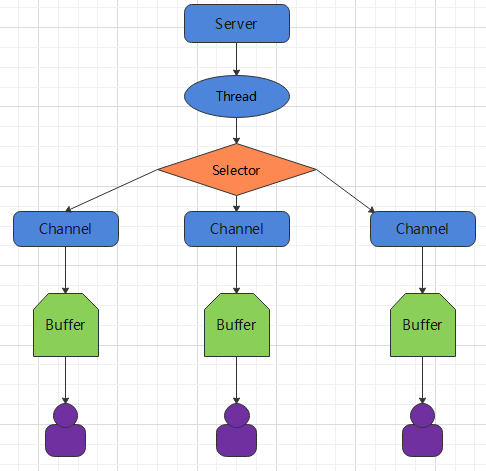
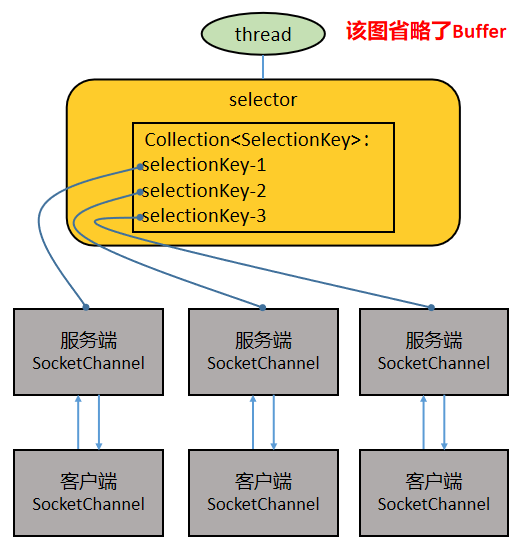
笔记更新

diff --git a/note/technology/netty/code/NioCode.java b/note/technology/netty/code/NioCode.java
@@ -1,50 +1,48 @@
 //服务端示例
+//工作过程参考(img/img.png)
 public static void main(String[] args) throws IOException {
-    ServerSocketChannel serverSocketChannel = ServerSocketChannel.open();
-    Selector selector = Selector.open();
+        //1.创建Selector和Channel对象
+        Selector selector = Selector.open();
+        ServerSocketChannel serverSocketChannel = ServerSocketChannel.open();
+        serverSocketChannel.socket().bind(new InetSocketAddress(8080));// channel绑定端口
+        serverSocketChannel.configureBlocking(false);//设置为非阻塞模式
 
-    // 绑定端口
-    serverSocketChannel.socket().bind(new InetSocketAddress(8080));
+        //2.绑定Channel和selector，关注 OP_ACCEPT 事件;  一个selector可以绑定多个channel的
+        serverSocketChannel.register(selector, SelectionKey.OP_ACCEPT);
 
-    // 设置 serverSocketChannel 为非阻塞模式
-    serverSocketChannel.configureBlocking(false);
+        //3.轮训查询channel是否有请求数据,然后进行处理
+        while (true) {
+            //查询channel是否有数据,没有数据则返回0
+            if (selector.select(1000) == 0) {
+                continue;
+            }
 
-    // 注册 serverSocketChannel 到 selector，关注 OP_ACCEPT 事件
-    serverSocketChannel.register(selector, SelectionKey.OP_ACCEPT);
+            //处理请求，找到 Channel 对应的 SelectionKey 的集合
+            // SelectionKey 和 Selector 关联（即通过 SelectionKey 可以找到对应的 Selector），
+            // 也和 SocketChannel 关联（即通过 SelectionKey 可以找到对应的 SocketChannel）
+            Set<SelectionKey> selectionKeys = selector.selectedKeys();
+            Iterator<SelectionKey> iterator = selectionKeys.iterator();
+            while (iterator.hasNext()) {
+                SelectionKey selectionKey = iterator.next();
 
-    while (true) {
-        // 没有事件发生
-        if (selector.select(1000) == 0) {
-            continue;
+                // 发生 OP_ACCEPT 事件，处理连接请求
+                if (selectionKey.isAcceptable()) {
+                    SocketChannel socketChannel = serverSocketChannel.accept();
+                    // 将 socketChannel 也注册到 selector，关注 OP_READ事件，并给 socketChannel 关联 Buffer
+                    //这一步为啥又注册上了,不明白
+                    socketChannel.register(selector, SelectionKey.OP_READ, ByteBuffer.allocate(1024));
+                }
+
+                // 发生 OP_READ 事件，读客户端数据
+                if (selectionKey.isReadable()) {
+                    SocketChannel channel = (SocketChannel) selectionKey.channel();
+                    ByteBuffer buffer = (ByteBuffer) selectionKey.attachment();
+                    channel.read(buffer);
+                    System.out.println("msg form client: " + new String(buffer.array()));
+                }
+
+                // 手动从集合中移除当前的 selectionKey，防止重复处理事件
+                iterator.remove();
+            }
         }
-
-        // 有事件发生，找到发生事件的 Channel 对应的 SelectionKey 的集合
-        Set<SelectionKey> selectionKeys = selector.selectedKeys();
-
-        Iterator<SelectionKey> iterator = selectionKeys.iterator();
-        while (iterator.hasNext()) {
-        SelectionKey selectionKey = iterator.next();
-
-        // 发生 OP_ACCEPT 事件，处理连接请求
-        if (selectionKey.isAcceptable()) {
-        SocketChannel socketChannel = serverSocketChannel.accept();
-
-        // 将 socketChannel 也注册到 selector，关注 OP_READ
-        // 事件，并给 socketChannel 关联 Buffer
-        socketChannel.register(selector, SelectionKey.OP_READ, ByteBuffer.allocate(1024));
-        }
-
-        // 发生 OP_READ 事件，读客户端数据
-        if (selectionKey.isReadable()) {
-        SocketChannel channel = (SocketChannel) selectionKey.channel();
-        ByteBuffer buffer = (ByteBuffer) selectionKey.attachment();
-        channel.read(buffer);
-
-        System.out.println("msg form client: " + new String(buffer.array()));
-        }
-
-        // 手动从集合中移除当前的 selectionKey，防止重复处理事件
-        iterator.remove();
-        }
-    }
 }

diff --git a/note/technology/netty/code/SelectorCode.java b/note/technology/netty/code/SelectorCode.java
@@ -1,0 +1,24 @@
+//Selector 是一个抽象类,主要代码如下
+public abstract class Selector implements Closeable {
+    /**创建一个选择器对象*/
+    public static Selector open() throws IOException {
+        return SelectorProvider.provider().openSelector();
+    }
+    /**返回所有发生事件的 Channel 对应的 SelectionKey 的集合，通过SelectionKey 可以找到对应的 Channel*/
+    public abstract Set<SelectionKey> selectedKeys();
+
+    /**返回所有 Channel 对应的 SelectionKey 的集合，通过 SelectionKey 可以找到对应的 Channel*/
+    public abstract Set<SelectionKey> keys();
+
+    /**监控所有注册的 Channel，当其中的 Channel 有 IO 操作可以进行时，将这些 Channel 对应的 SelectionKey 找到。参数用于设置超时时间*/
+    public abstract int select(long timeout) throws IOException;
+
+    /**无超时时间的 select ，一直等待，直到发现有 Channel 可以进行IO 操作*/
+    public abstract int select() throws IOException;
+
+    /**立即返回的 select */
+    public abstract int selectNow() throws IOException;
+
+    /**唤醒 Selector，对无超时时间的 select 过程起作用，终止其等待*/
+    public abstract Selector wakeup();
+}

diff --git a/note/technology/netty/code/BioCode.java b/note/technology/netty/code/BioCode.java
@@ -1,0 +1,32 @@
+//服务端示例代码
+
+public static void main(String[] args) throws IOException {
+    ExecutorService threadPool = Executors.newCachedThreadPool();
+    ServerSocket serverSocket = new ServerSocket(8080);
+    //循环接收请求, 接收到的话,就使用线程池里的某个线程进行处理,也就是说,一个线程只能处理一个请求.
+    while (true) {
+        Socket socket = serverSocket.accept();
+        threadPool.execute(() -> {
+            handler(socket);
+        });
+    }
+}
+
+/**
+ * 处理客户端请求
+ */
+private static void handler(Socket socket) throws IOException {
+    byte[] bytes = new byte[1024];
+
+    InputStream inputStream = socket.getInputStream();
+    socket.close();
+
+    while (true) {
+        int read = inputStream.read(bytes);
+        if (read != -1) {
+            System.out.println("msg from client: " + new String(bytes, 0, read));
+        } else {
+            break;
+        }
+    }
+}

diff --git a/note/technology/netty/netty.md b/note/technology/netty/netty.md
@@ -26,9 +26,48 @@ Java中的网络IO模型: BIO、NIO、AIO。
     NIO：同步的、非阻塞式 IO。
         在这种模型中，服务器上一个线程处理多个连接，即多个客户端请求都会被注册到多路复用器（后文要讲的 Selector）上，多路复用器会轮训这些连接，
         轮训到连接上有 IO 活动就进行处理。NIO 降低了线程的需求量，提高了线程的利用率。
+    AIO:异步非阻塞式 IO。在这种模型中，由操作系统完成与客户端之间的 read/write，之后再由操作系统主动通知服务器线程去处理后面的工作，在这个过
+        程中服务器线程不必同步等待 read/write 完成。由于不同的操作系统对 AIO 的支持程度不同，AIO 目前未得到广泛应用。
 
 selector模型:selector是多路复用器,可以轮训读取多个channel的数据,读取到数据之后就可以交给server的线程进行处理,即一个线程可以处理多个请求
-![](img/img.png)
+![](img/img_1.png)
+
+    1.一个 Selector 对应一个处理线程
+    2.一个 Selector 上可以注册多个 Channel
+    3.每个 Channel 都会对应一个 Buffer（有时候一个 Channel 可以使用多个 Buffer，这时候程序要进行多个 Buffer 的分散和聚集操作），Buffer 的本质是一个内存块，底层是一个数组
+    4.Selector 会根据不同的事件在各个 Channel 上切换
+    5.Buffer 是双向的，既可以读也可以写，切换读写方向要调用 Buffer 的 flip()方法
+    6.Channel 也是双向的，数据既可以流入也可以流出
+
+Reactor与Proactor模式: 这2中模式是指的java Nio与Aio的工作模式
+
+    Java NIO工作模式是：主动轮训 IO 事件，IO 事件发生后程序的线程主动处理 IO 工作，这种模式也叫做 Reactor 模式。
+    Java AIO工作模式是：将 IO 事件的处理托管给操作系统，操作系统完成 IO 工作之后会通知程序的线程去处理后面的工作，这种模式叫 Proactor 模式。
+
+阻塞和同步：阻塞是请求是否等待, 同步是接收到请求后服务端的处理
+
+    阻塞：如果线程调用 read/write 过程，但 read/write 过程没有就绪或没有完成，则调用 read/write 过程的线程会一直等待，这个过程叫做阻塞式读写。
+    非阻塞：如果线程调用 read/write 过程，但 read/write 过程没有就绪或没有完成，调用 read/write 过程的线程并不会一直等待，而是去处理其他工作，
+        等到 read/write 过程就绪或完成后再回来处理，这个过程叫做非阻塞式读写。
+
+    异步：read/write 过程托管给操作系统来完成，完成后操作系统会通知（通过回调或者事件）应用网络 IO 程序（其中的线程）来进行后续的处理。
+    同步：read/write 过程由网络 IO 程序（其中的线程）来完成。
+
+缓冲区（Buffer）:缓冲区（Buffer）本质上是一个可读可写的内存块，可以理解成一个容器对象，Channel 读写文件或者网络都要经由 Buffer。在 Java NIO 中，
+    Buffer 是一个顶层抽象类，它的常用子类有（前缀表示该 Buffer 可以存储哪种类型的数据）：ByteBuffer,CharBuffer,ShortBuffer,IntBuffer,
+    LongBuffer,DoubleBuffer,FloatBuffer,涵盖了 Java 中除 boolean 之外的所有的基本数据类型。
+
+通道（Channel）:通道（Channel）是双向的，可读可写。在 Java NIO 中，Buffer 是一个顶层接口，它的常用子类有：FileChannel用于文件读写,
+    DatagramChannel用于 UDP 数据包收发,ServerSocketChannel用于服务端 TCP 数据包收发,SocketChannel用于客户端 TCP 数据包收发
+
+选择器（Selector）:多个 Channel 注册到某个 Selector 上，当 Channel 上有事件发生时，Selector 就会取得事件然后调用线程去处理事件。也就是说只有
+    当连接上真正有读写等事件发生时，线程才会去进行读写等操作，这就不必为每个连接都创建一个线程，一个线程可以应对多个连接。这就是 IO 多路复用的要义。
+    Netty 的 IO 线程 NioEventLoop 聚合了 Selector，可以同时并发处理成百上千的客户端连接
+
+零拷贝技术:
+
+
+
 
 
 
